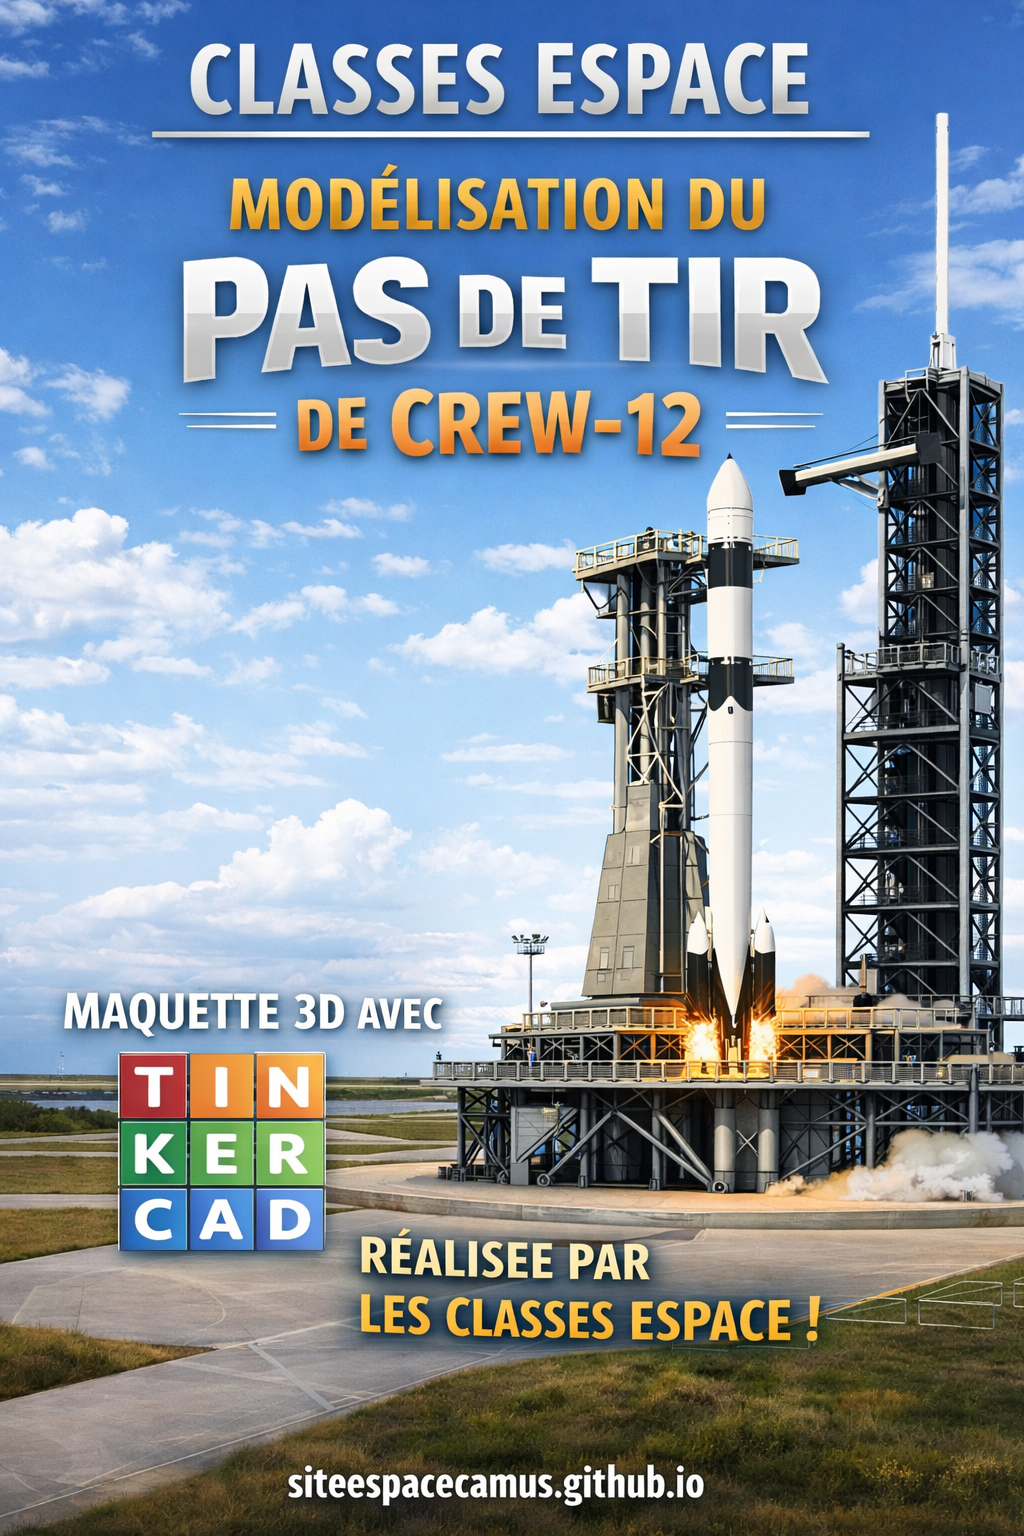
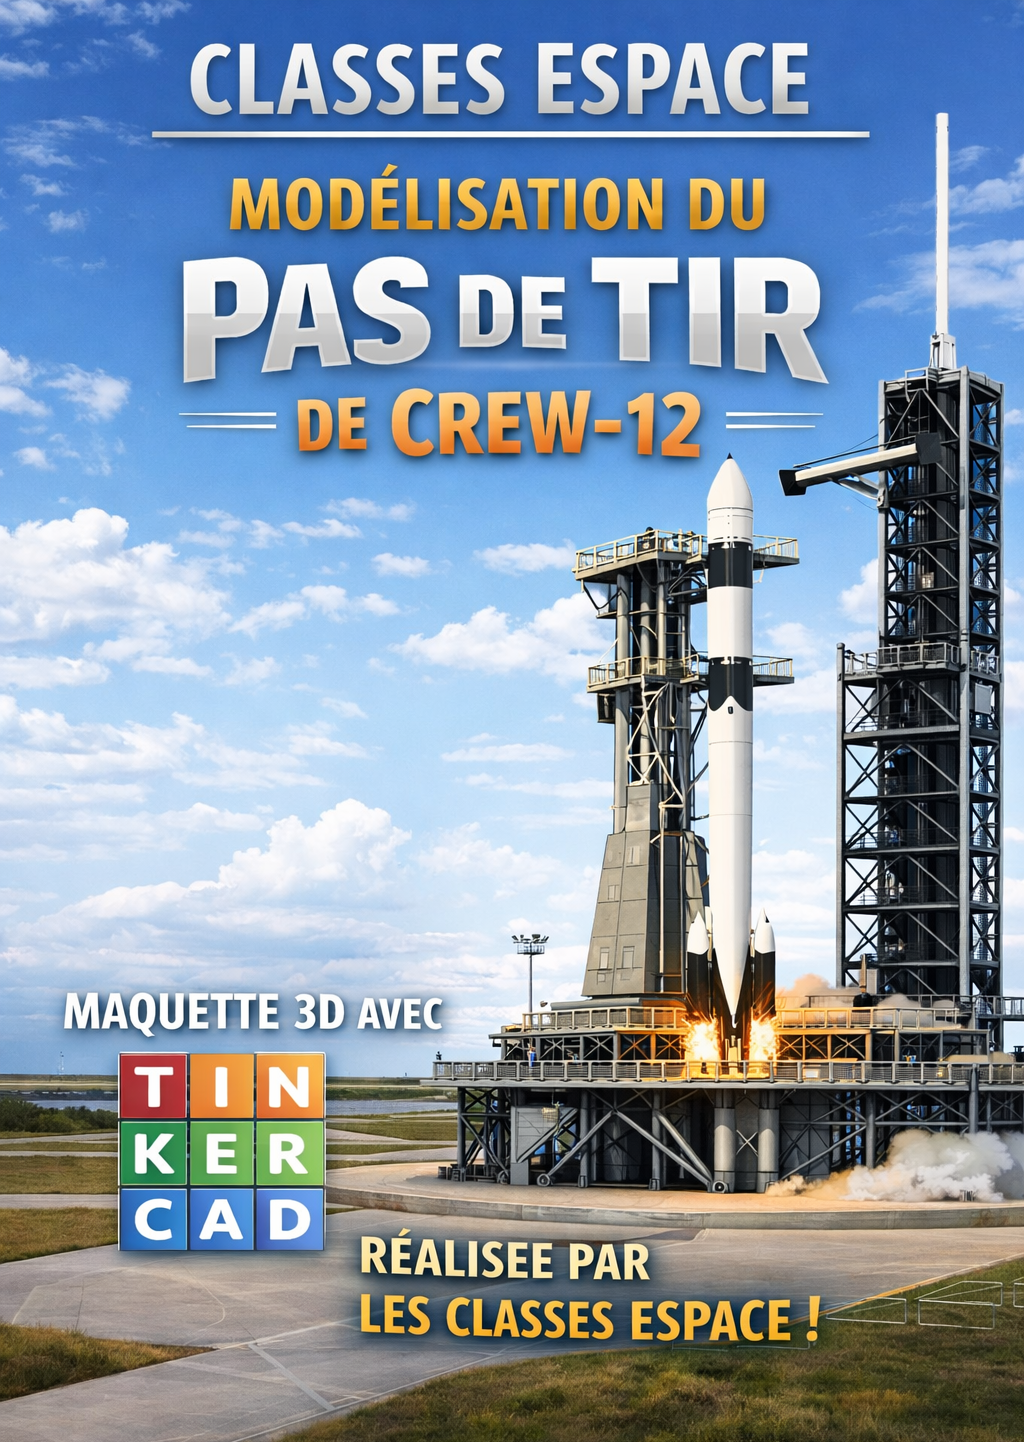
Mise a jour du contenu

diff --git a/album.html b/album.html
@@ -22,11 +22,9 @@
 <a href="evenement.html">Événements</a>
 <a href="album.html" class="active">Album</a>
 <a href="projets.html">Projets Futurs</a>
-<a href="publications.html">Publications</a>
 <a href="astropi.html">AstroPi</a>
 <a href="https://padlet.com/padfse/ariss-qaf1ndtv7npwkudz" target="_blank">ARISS</a>
 <a href="maquette.html">Maquette</a>
-<a href="temoignages.html">Témoignages</a>
 <a href="remerciements.html">Remerciements</a>
 </div>
 </nav>
@@ -34,8 +32,7 @@
 <section>
 <h2>Album</h2>
 <p><strong>Album numérique des classes Espace : souvenirs préservés, sécurité garantie !</strong></p>
-<p>Retrouvez dans cet album une sélection des photos prises lors des événements et activités des classes Espace. Chaque image a été soigneusement traitée : <strong>les visages y sont systématiquement floutés</strong> pour garantir le respect de la vie privée de chacun.</p>
-<p>Attention : il est strictement interdit de récupérer ou de télécharger directement les photos depuis l'album. Pour obtenir une ou plusieurs images au format fichier, <strong>une demande écrite par e-mail</strong> doit être adressée aux administrateurs du site, à l'adresse => [email redacted]</p>
+<p>Retrouvez dans cet album une sélection des photos prises lors des événements et activités des classes Espace. </p>
 <p style="background:rgba(99,102,241,.12); border:1px solid rgba(99,102,241,.35); border-radius:10px; padding:14px 18px; display:flex; align-items:center; gap:12px;">
   <span style="font-size:1.6rem;">📁</span>
   <span>Toutes les photos sont disponibles sur le <a href="https://drive.google.com/drive/folders/1AzEFtRAR1WqoHA3z0piWuVcHy3ttA8ke?usp=sharing" target="_blank" style="color:#a5b4fc; font-weight:700; text-decoration:none;">Drive du Projet Espace →</a></span>
@@ -143,7 +140,7 @@ document.addEventListener('keydown', e => {
 
 <footer>
   <p class="footer-title">© Projet Espace — Collège Albert Camus de La Norville</p>
-  <p class="footer-made">🛸 Site réalisé avec passion par <strong>Valentin</strong> et <strong>Mati</strong> ✨</p>
+  <p class="footer-made">🛸 Site réalisé avec passion par <strong>Valentin</strong> et <strong>Mati</strong>, élèves en classe de <strong>3ème Espace</strong> ✨</p>
 </footer>
 </body>
 </html>

diff --git a/astropi.html b/astropi.html
@@ -22,11 +22,9 @@
 <a href="evenement.html">Événements</a>
 <a href="album.html">Album</a>
 <a href="projets.html">Projets Futurs</a>
-<a href="publications.html">Publications</a>
 <a href="astropi.html" class="active">AstroPi</a>
 <a href="https://padlet.com/padfse/ariss-qaf1ndtv7npwkudz" target="_blank">ARISS</a>
 <a href="maquette.html">Maquette</a>
-<a href="temoignages.html">Témoignages</a>
 <a href="remerciements.html">Remerciements</a>
 </div>
 </nav>
@@ -113,7 +111,7 @@ document.addEventListener('keydown', e => {
 
 <footer>
   <p class="footer-title">© Projet Espace — Collège Albert Camus de La Norville</p>
-  <p class="footer-made">🛸 Site réalisé avec passion par <strong>Valentin</strong> et <strong>Mati</strong> ✨</p>
+  <p class="footer-made">🛸 Site réalisé avec passion par <strong>Valentin</strong> et <strong>Mati</strong>, élèves en classe de <strong>3ème Espace</strong> ✨</p>
 </footer>
 </body>
 </html>

diff --git a/description.html b/description.html
@@ -22,11 +22,9 @@
 <a href="evenement.html">Événements</a>
 <a href="album.html">Album</a>
 <a href="projets.html">Projets Futurs</a>
-<a href="publications.html">Publications</a>
 <a href="astropi.html">AstroPi</a>
 <a href="https://padlet.com/padfse/ariss-qaf1ndtv7npwkudz" target="_blank">ARISS</a>
 <a href="maquette.html">Maquette</a>
-<a href="temoignages.html">Témoignages</a>
 <a href="remerciements.html">Remerciements</a>
 </div>
 </nav>
@@ -41,7 +39,7 @@
 
 <footer>
   <p class="footer-title">© Projet Espace — Collège Albert Camus de La Norville</p>
-  <p class="footer-made">🛸 Site réalisé avec passion par <strong>Valentin</strong> et <strong>Mati</strong> ✨</p>
+  <p class="footer-made">🛸 Site réalisé avec passion par <strong>Valentin</strong> et <strong>Mati</strong>, élèves en classe de <strong>3ème Espace</strong> ✨</p>
 </footer>
 </body>
 </html>

diff --git a/evenement.html b/evenement.html
@@ -22,11 +22,9 @@
 <a href="evenement.html" class="active">Événements</a>
 <a href="album.html">Album</a>
 <a href="projets.html">Projets Futurs</a>
-<a href="publications.html">Publications</a>
 <a href="astropi.html">AstroPi</a>
 <a href="https://padlet.com/padfse/ariss-qaf1ndtv7npwkudz" target="_blank">ARISS</a>
 <a href="maquette.html">Maquette</a>
-<a href="temoignages.html">Témoignages</a>
 <a href="remerciements.html">Remerciements</a>
 </div>
 </nav>
@@ -121,7 +119,7 @@
 
 <footer>
   <p class="footer-title">© Projet Espace — Collège Albert Camus de La Norville</p>
-  <p class="footer-made">🛸 Site réalisé avec passion par <strong>Valentin</strong> et <strong>Mati</strong> ✨</p>
+  <p class="footer-made">🛸 Site réalisé avec passion par <strong>Valentin</strong> et <strong>Mati</strong>, élèves en classe de <strong>3ème Espace</strong> ✨</p>
 </footer>
 </body>
 </html>

diff --git a/index.html b/index.html
@@ -22,11 +22,9 @@
 <a href="evenement.html">Événements</a>
 <a href="album.html">Album</a>
 <a href="projets.html">Projets Futurs</a>
-<a href="publications.html">Publications</a>
 <a href="astropi.html">AstroPi</a>
 <a href="https://padlet.com/padfse/ariss-qaf1ndtv7npwkudz" target="_blank">ARISS</a>
 <a href="maquette.html">Maquette</a>
-<a href="temoignages.html">Témoignages</a>
 <a href="remerciements.html">Remerciements</a>
 </div>
 </nav>
@@ -47,7 +45,7 @@
 
 <footer>
   <p class="footer-title">© Projet Espace — Collège Albert Camus de La Norville</p>
-  <p class="footer-made">🛸 Site réalisé avec passion par <strong>Valentin</strong> et <strong>Mati</strong> ✨</p>
+  <p class="footer-made">🛸 Site réalisé avec passion par <strong>Valentin</strong> et <strong>Mati</strong>, élèves en classe de <strong>3ème Espace</strong> ✨</p>
 </footer>
 </body>
 </html>

diff --git a/maquette.html b/maquette.html
@@ -22,11 +22,9 @@
 <a href="evenement.html">Événements</a>
 <a href="album.html">Album</a>
 <a href="projets.html">Projets Futurs</a>
-<a href="publications.html">Publications</a>
 <a href="astropi.html">AstroPi</a>
 <a href="https://padlet.com/padfse/ariss-qaf1ndtv7npwkudz" target="_blank">ARISS</a>
 <a href="maquette.html" class="active">Maquette</a>
-<a href="temoignages.html">Témoignages</a>
 <a href="remerciements.html">Remerciements</a>
 </div>
 </nav>
@@ -40,7 +38,7 @@
 
 <footer>
   <p class="footer-title">© Projet Espace — Collège Albert Camus de La Norville</p>
-  <p class="footer-made">🛸 Site réalisé avec passion par <strong>Valentin</strong> et <strong>Mati</strong> ✨</p>
+  <p class="footer-made">🛸 Site réalisé avec passion par <strong>Valentin</strong> et <strong>Mati</strong>, élèves en classe de <strong>3ème Espace</strong> ✨</p>
 </footer>
 </body>
 </html>

diff --git a/projets.html b/projets.html
@@ -22,11 +22,9 @@
 <a href="evenement.html">Événements</a>
 <a href="album.html">Album</a>
 <a href="projets.html" class="active">Projets Futurs</a>
-<a href="publications.html">Publications</a>
 <a href="astropi.html">AstroPi</a>
 <a href="https://padlet.com/padfse/ariss-qaf1ndtv7npwkudz" target="_blank">ARISS</a>
 <a href="maquette.html">Maquette</a>
-<a href="temoignages.html">Témoignages</a>
 <a href="remerciements.html">Remerciements</a>
 </div>
 </nav>
@@ -88,7 +86,7 @@ container.addEventListener('click', () => {
 
 <footer>
   <p class="footer-title">© Projet Espace — Collège Albert Camus de La Norville</p>
-  <p class="footer-made">🛸 Site réalisé avec passion par <strong>Valentin</strong> et <strong>Mati</strong> ✨</p>
+  <p class="footer-made">🛸 Site réalisé avec passion par <strong>Valentin</strong> et <strong>Mati</strong>, élèves en classe de <strong>3ème Espace</strong> ✨</p>
 </footer>
 </body>
 </html>

diff --git a/remerciements.html b/remerciements.html
@@ -22,11 +22,9 @@
 <a href="evenement.html">Événements</a>
 <a href="album.html">Album</a>
 <a href="projets.html">Projets Futurs</a>
-<a href="publications.html">Publications</a>
 <a href="astropi.html">AstroPi</a>
 <a href="https://padlet.com/padfse/ariss-qaf1ndtv7npwkudz" target="_blank">ARISS</a>
 <a href="maquette.html">Maquette</a>
-<a href="temoignages.html">Témoignages</a>
 <a href="remerciements.html" class="active">Remerciements</a>
 </div>
 </nav>
@@ -43,7 +41,7 @@
 
 <footer>
   <p class="footer-title">© Projet Espace — Collège Albert Camus de La Norville</p>
-  <p class="footer-made">🛸 Site réalisé avec passion par <strong>Valentin</strong> et <strong>Mati</strong> ✨</p>
+  <p class="footer-made">🛸 Site réalisé avec passion par <strong>Valentin</strong> et <strong>Mati</strong>, élèves en classe de <strong>3ème Espace</strong> ✨</p>
 </footer>
 </body>
 </html>